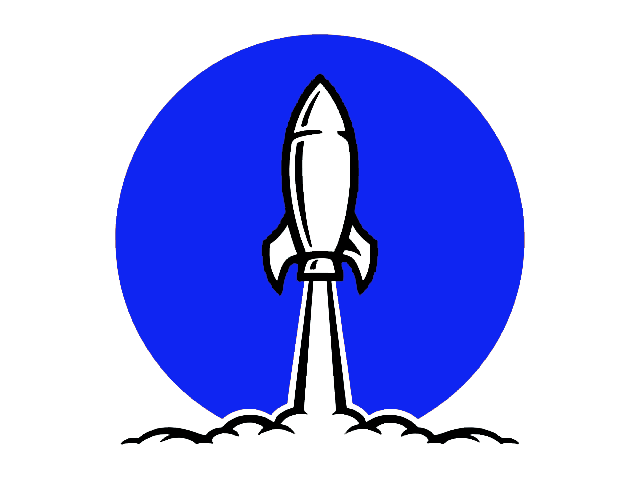
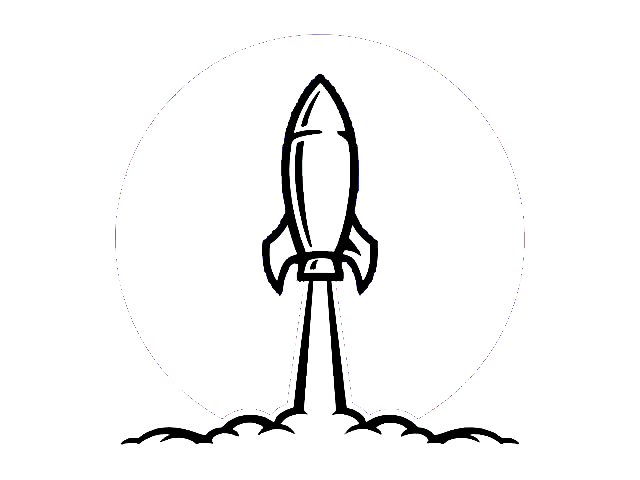
update styling

diff --git a/src/components/globalComponents/components/generic-components/coming-soon.tsx b/src/components/globalComponents/components/generic-components/coming-soon.tsx
@@ -18,15 +18,62 @@ import React, { useState } from 'react';
    
 
     
-        return (
-          <div style={{textAlign:"center",backgroundColor:"white", padding:"10px 10px",height:"80vh",justifyContent:"center",display:"flex", flexDirection:"column"}}>
-            <h1>Coming Soon</h1>
-            <h2>{title}</h2>
-            <div >
-                <img style={{width:"20%"}} src="/RocketReps.png"/>
+    return (
+        <div
+          style={{
+            textAlign: 'center',
+            backgroundColor: 'white',
+            padding: '10px 10px',
+            height: '80vh',
+            justifyContent: 'center',
+            display: 'flex',
+            flexDirection: 'column',
+            position: 'relative'
+          }}
+        >
+          <div
+            style={{
+              alignSelf: 'center',
+              position: 'absolute',
+              backgroundColor: 'grey',
+              width: '300px',
+              height: '380px',
+              padding: '10px 10px',
+              transform: 'skew(-.312rad)',
+              borderRadius: '50%',
+              display: 'flex',
+              alignItems: 'center',
+              justifyContent: 'center',
+              zIndex: 0 // Lower z-index to place it behind
+            }}
+          ></div>
+          <div
+            style={{
+              alignSelf: 'center',
+              position: 'relative',
+              backgroundColor: 'lightblue',
+              width: '300px',
+              height: '70px',
+              padding: '10px 10px 10px 10px',
+              transform: 'skew(-.312rad)',
+              zIndex: 1 // Higher z-index to place it in front
+            }}
+          >
+            <h1
+              style={{
+                transform: 'skew(.312rad)',
+                zIndex: 2 // Highest z-index to place the text in front
+              }}
+            >
+              Coming Soon
+            </h1>
           </div>
+          <h2 style={{ zIndex: 2 }}>{title}</h2>
+          <div>
+            <img style={{ position:"relative",width: '150px', zIndex: 2,marginTop:"50px" }} src="/RocketReps.png" alt="Rocket Reps" />
           </div>
-        );
+        </div>
+      );
       };
     
         
